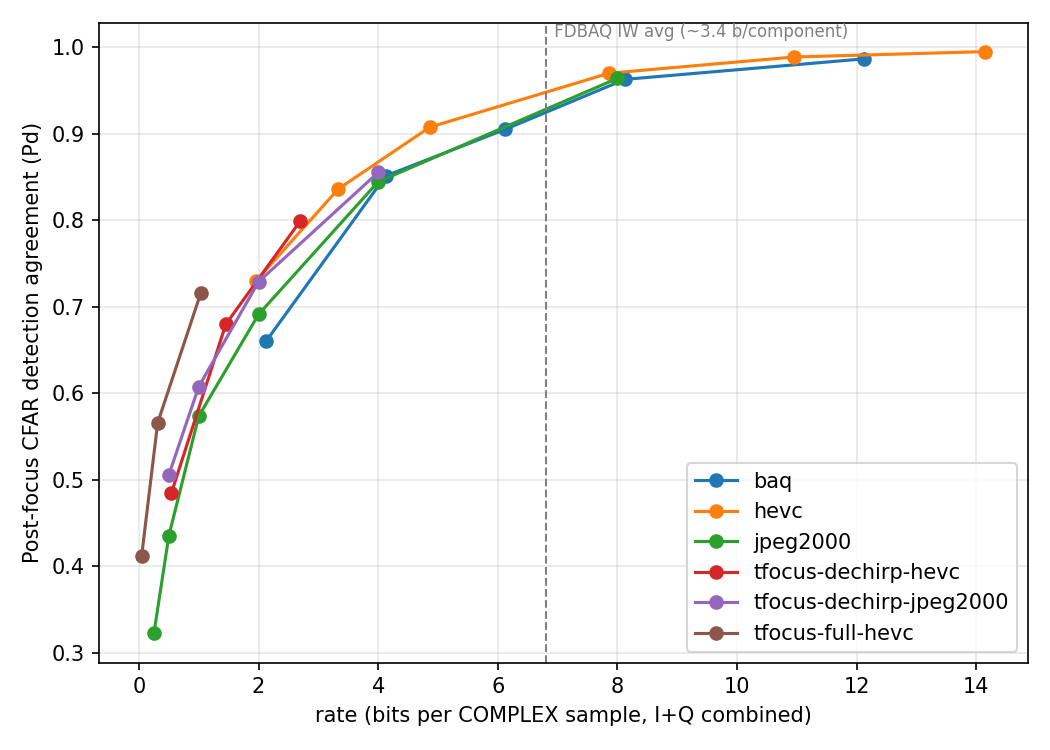
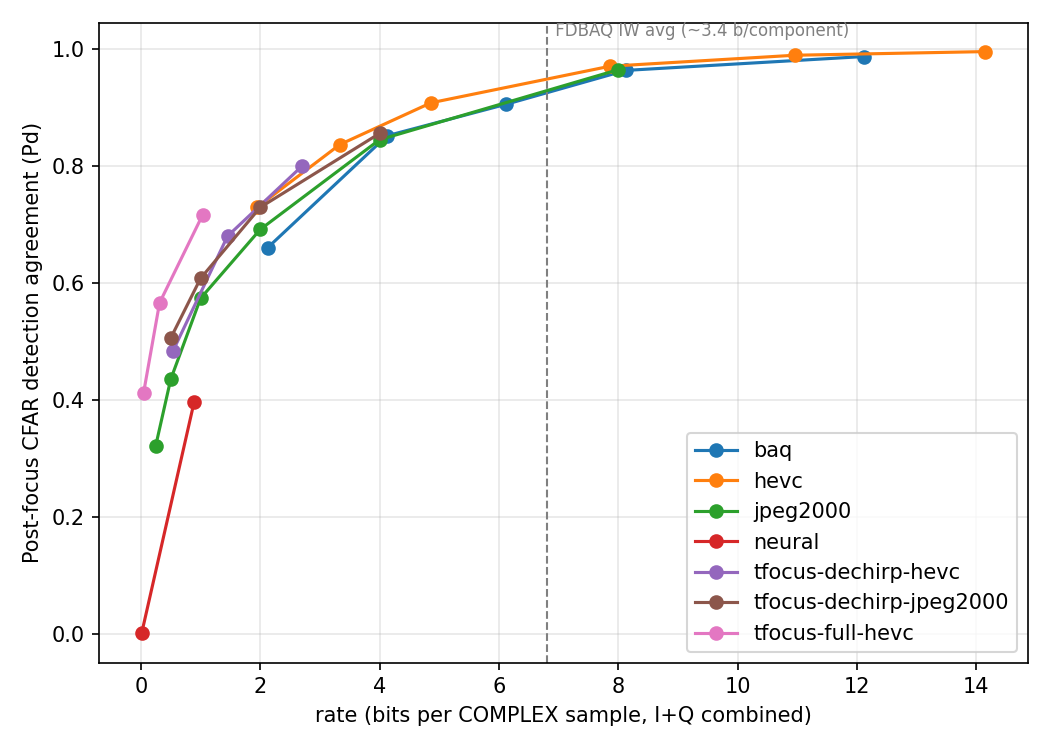
Model readout: inconclusive under registered rules; STOPPING RULE FIRED
lam=50 converged to degenerate rate collapse (calibration error); lam=300
fails the sanity gate with loss still descending — reported as convergence/
calibration failure and lower bound per Amendment 6, not P2 evidence, not an
architecture NO-GO. P2 neither confirmed nor refuted (signature matches
neither pole; tile-seam mechanism proposed as first diagnostic). Experimental
phase closed: classical spine stands, concentrated domain exploitable in
principle, learned-codec question open with failure diagnosed as engineering.
Ideas list converted to Phase I scope.

diff --git a/scripts/eval_focused.py b/scripts/eval_focused.py
@@ -79,7 +79,7 @@ def main():
             # wall time for encode+decode combined — crude (Python vs native
             # varies by orders of magnitude) but answers "why not just HEVC?"
             # with the onboard-compute argument Phase II will demand properly
-            extra = {"meta": meta} if name == "tfocus" else {}  # chirp/timing side info, not a swept param
+            extra = {"meta": meta} if name in ("tfocus",) else {}  # chirp/timing side info, not a swept param
             t0 = time.perf_counter()
             raw_hat, rate = CODECS[name](raw, **params, **extra)
             codec_s = time.perf_counter() - t0

diff --git a/reports/FINDINGS.md b/reports/FINDINGS.md
@@ -483,6 +483,58 @@ rate at sustained two-sided utility, (2) its position against 6.1 and 4.86,
 (3) its ops-per-sample class (parallel MACs). Rate alone under-tells the
 claim.
 
+## MODEL READOUT (2026-08-06) — inconclusive under the registered rules;
+## STOPPING RULE FIRED
+
+Scored through the identical pipeline as every baseline:
+
+| model | conv. slope | rate (bps) | Pd | spurious (limit 2,339) |
+|---|---|---|---|---|
+| lam=50 | -0.00% (flat) | 0.01 | 0.002 | 3,214 |
+| lam=300 | -1.09% (descending) | 0.89 | 0.397 | 25,886 |
+
+**Reading, mechanically applied:**
+- lam=50 converged but to a DEGENERATE operating point: rate collapse
+  (0.01 bps) means lambda was set 1-2 orders too low for this normalized
+  data — a calibration error, not a finding.
+- lam=300 fails the Amendment 6 sanity gate (worse than classical at
+  matched rate: raw J2K at 1.0 bps scores 0.574/5,566 vs neural
+  0.397/25,886) AND its loss was still descending (-1.09%). Per the
+  registered rules this is reported as a CONVERGENCE/CALIBRATION FAILURE and
+  a LOWER BOUND on learned-codec performance — not evidence for P2, not a
+  NO-GO on the architecture.
+- **P2 verdict: NEITHER confirmed nor refuted.** The observed signature (low
+  Pd AND massive spurious) matches neither predicted pole (blur nor pure
+  ringing). Candidate mechanism, unverified: independent per-tile compression
+  with per-tile RMS normalization creates seam discontinuities on the 128-px
+  grid that focusing amplifies into phantom detections. Verifying seam
+  alignment of the false alarms is the first proposed diagnostic.
+- **Three-number headline, as registered:** (1) achieved rate at sustained
+  two-sided utility: NONE in this run; (2) position vs 6.1 / 4.86:
+  not applicable; (3) ops class: parallel conv MACs, measured 0.6-1.3
+  Msamples/s single-threaded CPU (vs BAQ 16-19 in-process) — the
+  parallelism argument is unaffected by this run's quality failure.
+
+**Continuous primary outcome:** no sustaining rate achieved. **Binary
+secondary:** NO-GO on this run — reported with the mandatory qualifier that
+Amendment 6's confound rule applies in full: this run bounds a compact
+CPU-budget model below, and says nothing about the architecture class.
+
+**STOPPING RULE FIRED.** Transform baseline and one trained autoencoder have
+both been scored against the pre-registered criterion. The experimental phase
+is closed. What the record establishes: (1) the classical feasibility spine
+stands in full — no classical approach sustains two-sided utility below 4.86
+bits/complex-sample, each failure mechanistically named; (2) the concentrated
+domain is exploitable in principle (coding-gain prediction confirmed) and the
+open problem is capturing that gain without a detection-hostile artifact
+signature; (3) the learned-codec question is OPEN, with the failure diagnosed
+as budget/calibration/tiling engineering, not principle. Items for Phase I
+proposal scope, converted from the ideas list per the stopping rule:
+GPU-scale training with calibrated lambda schedules, seam-aware tiling
+(overlap or global normalization), detection-aware training objectives,
+cross-scene generalization, second-scene clutter, ANS productionization of
+the entropy coder, embedded trade study.
+
 **Stopping rule (adopted 2026-08-06):** the experimental phase ends when the
 transform baseline AND one trained autoencoder have both been scored against
 the pre-registered continuous criterion. After that, the next artifact is
